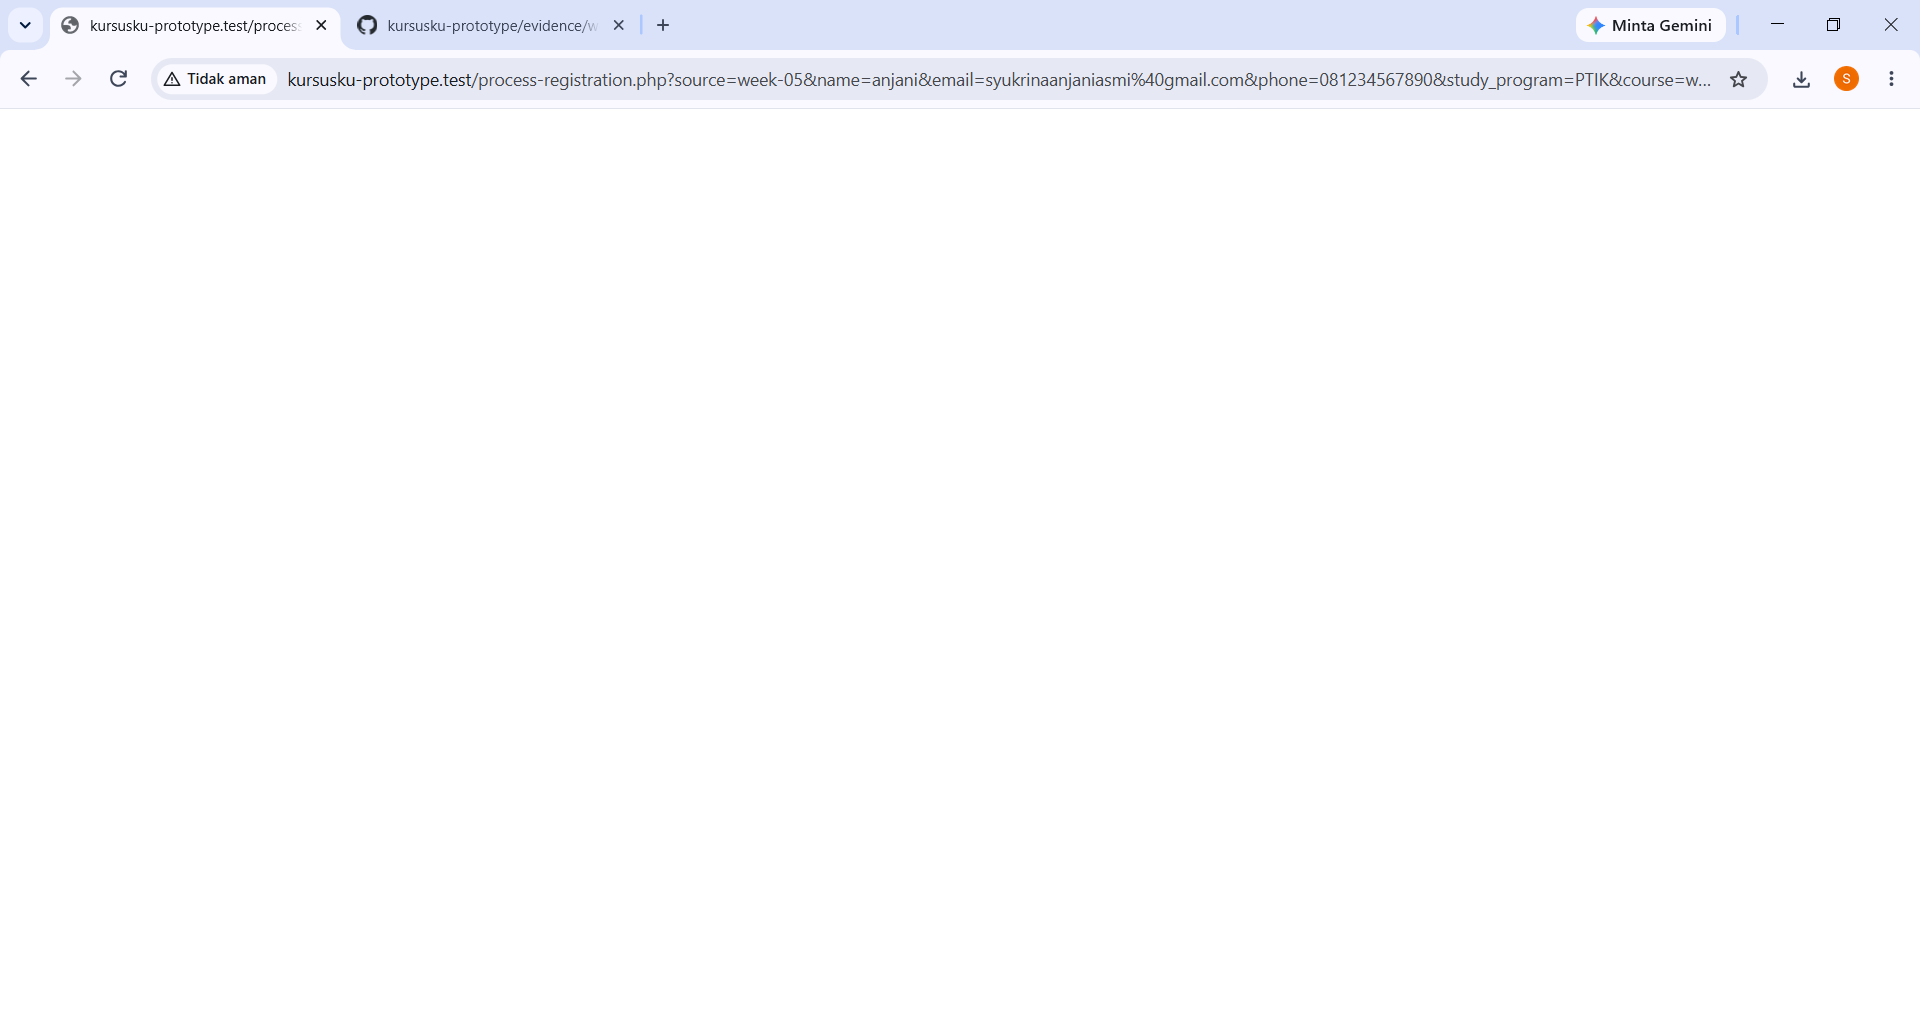
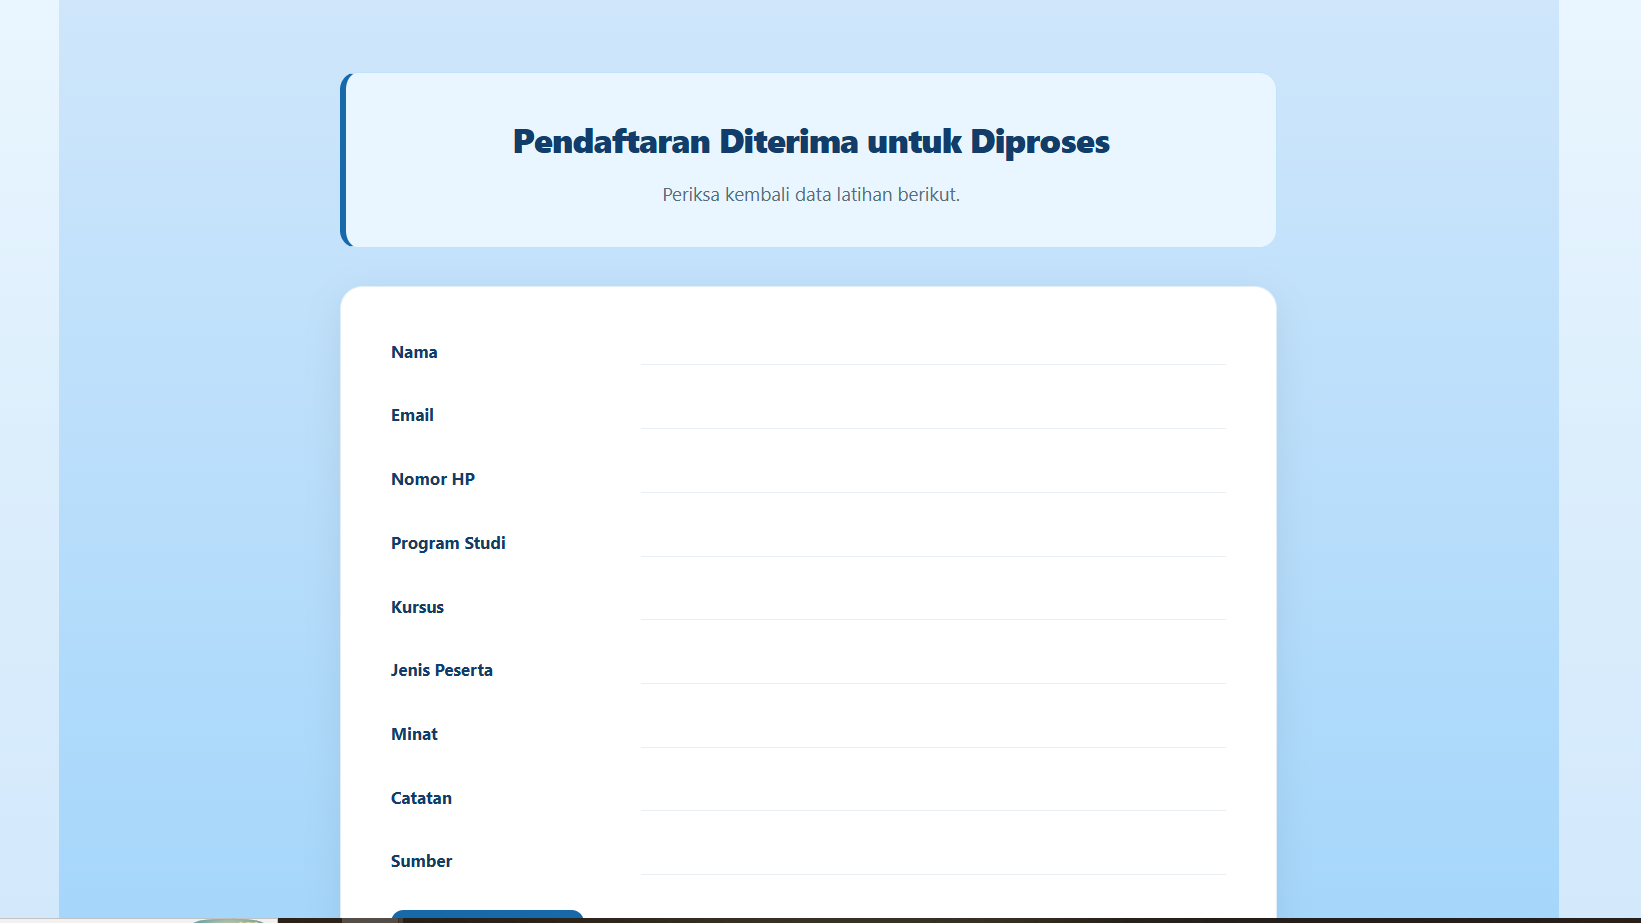
Update

diff --git a/test-matrix.php b/test-matrix.php
@@ -1,0 +1,345 @@
+<!DOCTYPE html>
+<html lang="id">
+<head>
+    <meta charset="UTF-8">
+    <meta name="viewport" content="width=device-width, initial-scale=1.0">
+
+    <title>Test Matrix - KursusKu UIN</title>
+
+    <style>
+        * {
+            box-sizing: border-box;
+            margin: 0;
+            padding: 0;
+        }
+
+        body {
+            font-family: Arial, Helvetica, sans-serif;
+            background: #f5f9ff;
+            color: #1f2a44;
+        }
+
+        /* NAVBAR */
+        nav {
+            height: 80px;
+            background: #ffffff;
+            display: flex;
+            align-items: center;
+            justify-content: space-between;
+            padding: 0 7%;
+            box-shadow: 0 3px 15px rgba(37, 99, 235, 0.08);
+        }
+
+        .logo {
+            color: #2563eb;
+            font-size: 24px;
+            font-weight: bold;
+        }
+
+        .nav-menu {
+            display: flex;
+            gap: 35px;
+        }
+
+        .nav-menu a {
+            text-decoration: none;
+            color: #475a7a;
+            font-size: 15px;
+            font-weight: 600;
+            transition: 0.2s;
+        }
+
+        .nav-menu a:hover {
+            color: #2563eb;
+        }
+
+        /* BACKGROUND */
+        .page {
+            min-height: calc(100vh - 80px);
+            background: linear-gradient(135deg, #eef5ff 0%, #ffffff 50%, #e8f1ff 100%);
+            padding: 60px 30px;
+        }
+
+        /* CARD */
+        .container {
+            max-width: 1150px;
+            margin: auto;
+            background: #ffffff;
+            border-radius: 22px;
+            padding: 40px;
+            box-shadow: 0 15px 40px rgba(37, 99, 235, 0.10);
+        }
+
+        /* HEADER */
+        .label {
+            color: #2563eb;
+            font-size: 12px;
+            font-weight: bold;
+            letter-spacing: 2px;
+            margin-bottom: 12px;
+        }
+
+        h1 {
+            color: #1f2a44;
+            font-size: 34px;
+            margin-bottom: 10px;
+        }
+
+        .description {
+            color: #6b7a99;
+            font-size: 14px;
+            margin-bottom: 30px;
+        }
+
+        /* TABLE */
+        .table-wrapper {
+            overflow-x: auto;
+        }
+
+        table {
+            width: 100%;
+            border-collapse: separate;
+            border-spacing: 0;
+            border: 1px solid #dbe7fb;
+            border-radius: 14px;
+            overflow: hidden;
+        }
+
+        thead {
+            background: #e6f0ff;
+        }
+
+        th {
+            padding: 16px 14px;
+            text-align: left;
+            font-size: 12px;
+            color: #1d4ed8;
+            font-weight: 700;
+            border-bottom: 1px solid #cfe0fa;
+        }
+
+        td {
+            padding: 15px 14px;
+            font-size: 13px;
+            color: #2f3a52;
+            background: #ffffff;
+            border-bottom: 1px solid #edf2fa;
+        }
+
+        tbody tr:last-child td {
+            border-bottom: none;
+        }
+
+        tbody tr:hover td {
+            background: #f6faff;
+        }
+
+        /* NOMOR */
+        th:first-child,
+        td:first-child {
+            width: 55px;
+            text-align: center;
+        }
+
+        /* STATUS */
+        .status {
+            display: inline-block;
+            padding: 6px 12px;
+            border-radius: 20px;
+            font-size: 11px;
+            font-weight: bold;
+            background: #e7f8ed;
+            color: #249653;
+        }
+
+        /* FOOTER */
+        .footer {
+            text-align: center;
+            margin-top: 30px;
+            color: #8190ab;
+            font-size: 12px;
+        }
+
+        /* RESPONSIVE */
+        @media (max-width: 768px) {
+            nav {
+                height: auto;
+                padding: 20px;
+                flex-direction: column;
+                gap: 20px;
+            }
+
+            .nav-menu {
+                gap: 15px;
+                flex-wrap: wrap;
+                justify-content: center;
+            }
+
+            .page {
+                padding: 30px 15px;
+            }
+
+            .container {
+                padding: 25px 15px;
+            }
+
+            h1 {
+                font-size: 27px;
+            }
+
+            th,
+            td {
+                padding: 12px 10px;
+                font-size: 12px;
+            }
+        }
+    </style>
+</head>
+
+<body>
+
+<!-- NAVBAR -->
+<nav>
+    <div class="logo">KursusKu UIN</div>
+
+    <div class="nav-menu">
+        <a href="index.php">Beranda</a>
+        <a href="register.php">Daftar Kursus</a>
+        <a href="history.php">History</a>
+        <a href="test-matrix.php">Test Matrix</a>
+    </div>
+</nav>
+
+<!-- CONTENT -->
+<div class="page">
+    <div class="container">
+
+        <div class="label">EVIDENCE WEEK 06</div>
+
+        <h1>Test Matrix Pertemuan 6</h1>
+
+        <p class="description">
+            Hasil pengujian fitur pendaftaran kursus KursusKu UIN.
+        </p>
+
+        <div class="table-wrapper">
+            <table>
+                <thead>
+                    <tr>
+                        <th>NO</th>
+                        <th>SKENARIO</th>
+                        <th>ACTUAL</th>
+                        <th>EXPECTED</th>
+                        <th>STATUS</th>
+                    </tr>
+                </thead>
+
+                <tbody>
+                    <tr>
+                        <td>1</td>
+                        <td>Mahasiswa, Web Dasar, 1 paket</td>
+                        <td>Rp 240.000</td>
+                        <td>Rp 240.000</td>
+                        <td><span class="status">PASS</span></td>
+                    </tr>
+
+                    <tr>
+                        <td>2</td>
+                        <td>Guru, PHP Dasar, 1 paket</td>
+                        <td>Rp 340.000</td>
+                        <td>Rp 340.000</td>
+                        <td><span class="status">PASS</span></td>
+                    </tr>
+
+                    <tr>
+                        <td>3</td>
+                        <td>Umum, Laravel Dasar, 1 paket</td>
+                        <td>Rp 500.000</td>
+                        <td>Rp 500.000</td>
+                        <td><span class="status">PASS</span></td>
+                    </tr>
+
+                    <tr>
+                        <td>4</td>
+                        <td>Mahasiswa, Web Dasar, 2 paket</td>
+                        <td>Rp 480.000</td>
+                        <td>Rp 480.000</td>
+                        <td><span class="status">PASS</span></td>
+                    </tr>
+
+                    <tr>
+                        <td>5</td>
+                        <td>Nama kosong</td>
+                        <td>Nama wajib diisi.</td>
+                        <td>Nama wajib diisi.</td>
+                        <td><span class="status">PASS</span></td>
+                    </tr>
+
+                    <tr>
+                        <td>6</td>
+                        <td>Email tidak valid</td>
+                        <td>Email tidak valid.</td>
+                        <td>Email tidak valid.</td>
+                        <td><span class="status">PASS</span></td>
+                    </tr>
+
+                    <tr>
+                        <td>7</td>
+                        <td>Minat kosong</td>
+                        <td>Belum memilih minat.</td>
+                        <td>Belum memilih minat.</td>
+                        <td><span class="status">PASS</span></td>
+                    </tr>
+
+                    <tr>
+                        <td>8</td>
+                        <td>3 minat</td>
+                        <td>Frontend, Backend, Database</td>
+                        <td>Frontend, Backend, Database</td>
+                        <td><span class="status">PASS</span></td>
+                    </tr>
+
+                    <tr>
+                        <td>9</td>
+                        <td>Metode offline</td>
+                        <td>Tatap Muka</td>
+                        <td>Tatap Muka</td>
+                        <td><span class="status">PASS</span></td>
+                    </tr>
+
+                    <tr>
+                        <td>10</td>
+                        <td>Metode hybrid</td>
+                        <td>Hybrid</td>
+                        <td>Hybrid</td>
+                        <td><span class="status">PASS</span></td>
+                    </tr>
+
+                    <tr>
+                        <td>11</td>
+                        <td>GET process.php</td>
+                        <td>Redirect ke register.php</td>
+                        <td>Redirect ke register.php</td>
+                        <td><span class="status">PASS</span></td>
+                    </tr>
+
+                    <tr>
+                        <td>12</td>
+                        <td>Tambah fasilitas</td>
+                        <td>Dirender otomatis dengan foreach</td>
+                        <td>Dirender otomatis dengan foreach</td>
+                        <td><span class="status">PASS</span></td>
+                    </tr>
+                </tbody>
+            </table>
+        </div>
+
+        <div class="footer">
+            KursusKu UIN &copy; <?= date('Y') ?>
+        </div>
+
+    </div>
+</div>
+
+</body>
+</html>

diff --git a/index.php b/index.php
@@ -91,6 +91,7 @@ $courses = [
                 <a href="registration.php">Form P5</a>
                 <a href="register.php">Daftar P6</a>
                 <a href="history.php">History</a>
+                <a href="test-matrix.php">Tes Matrik</a>
 
 </nav>
 
